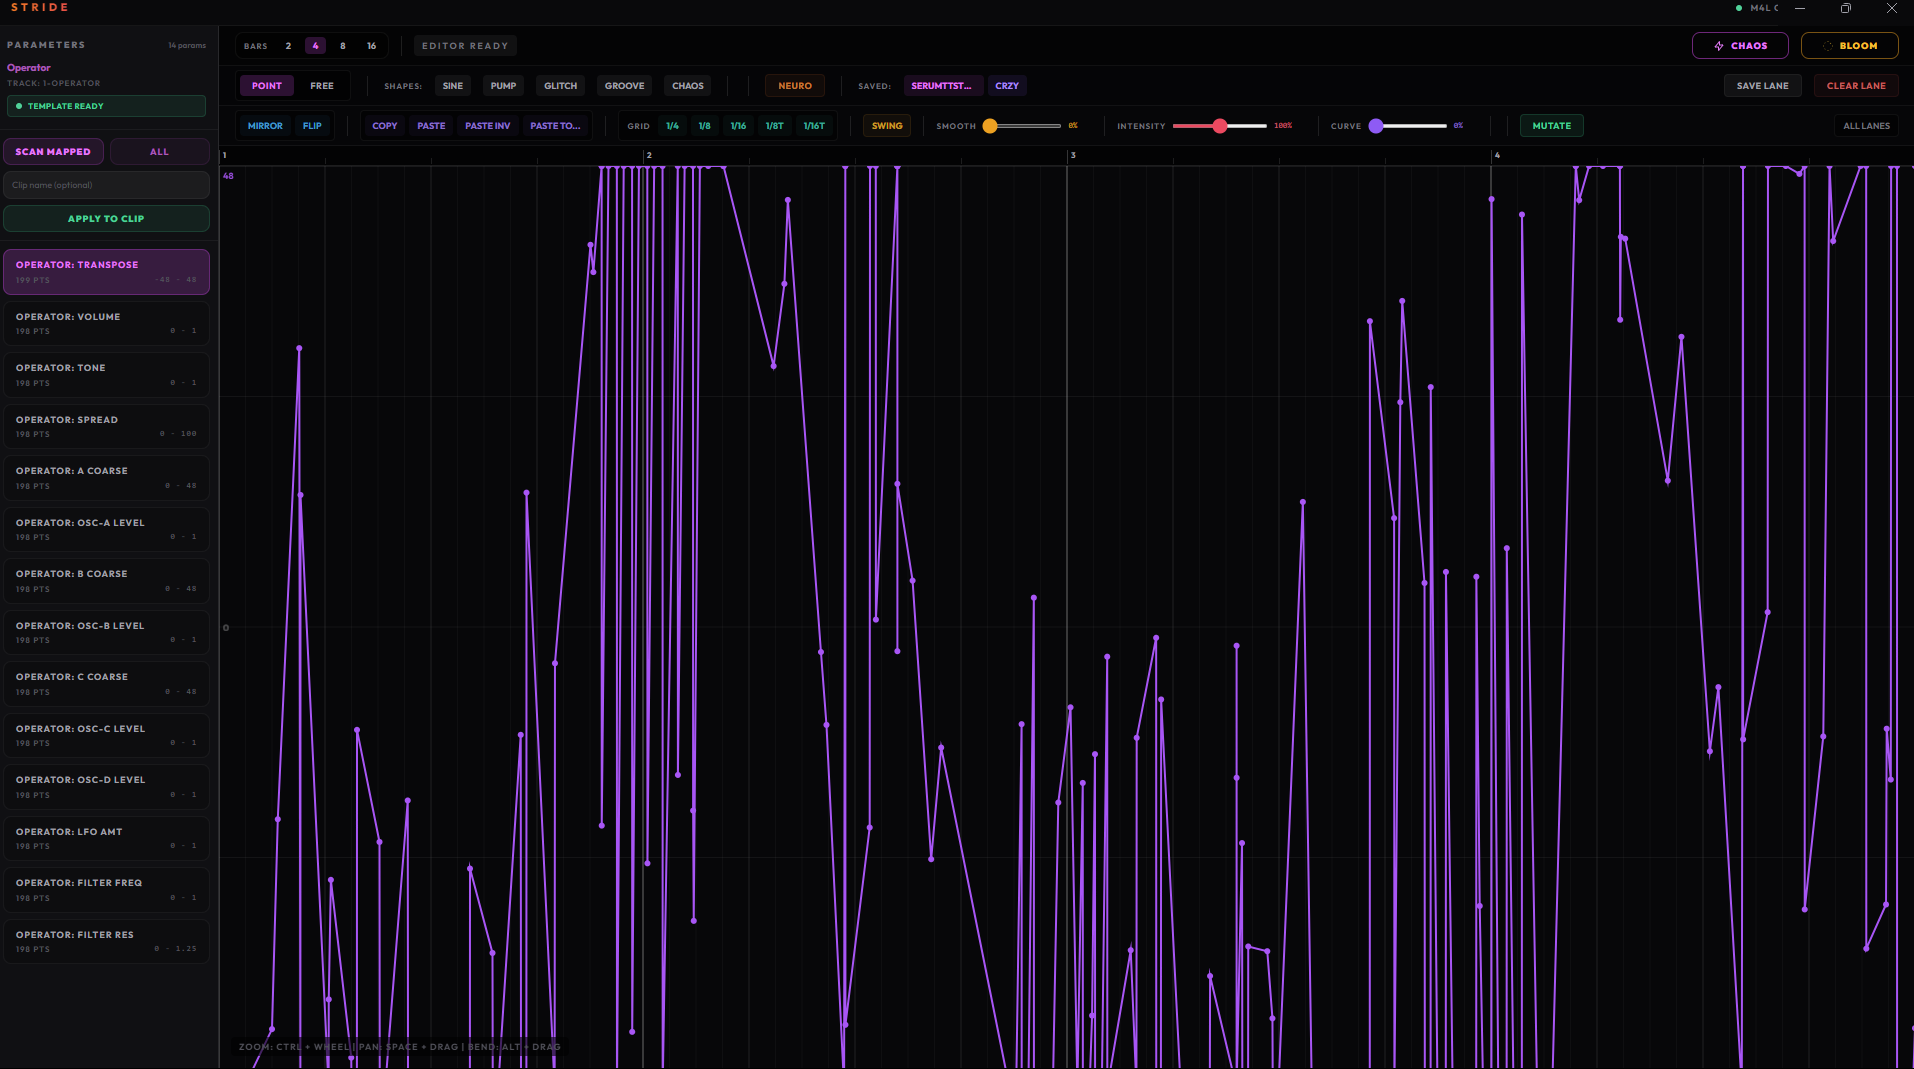
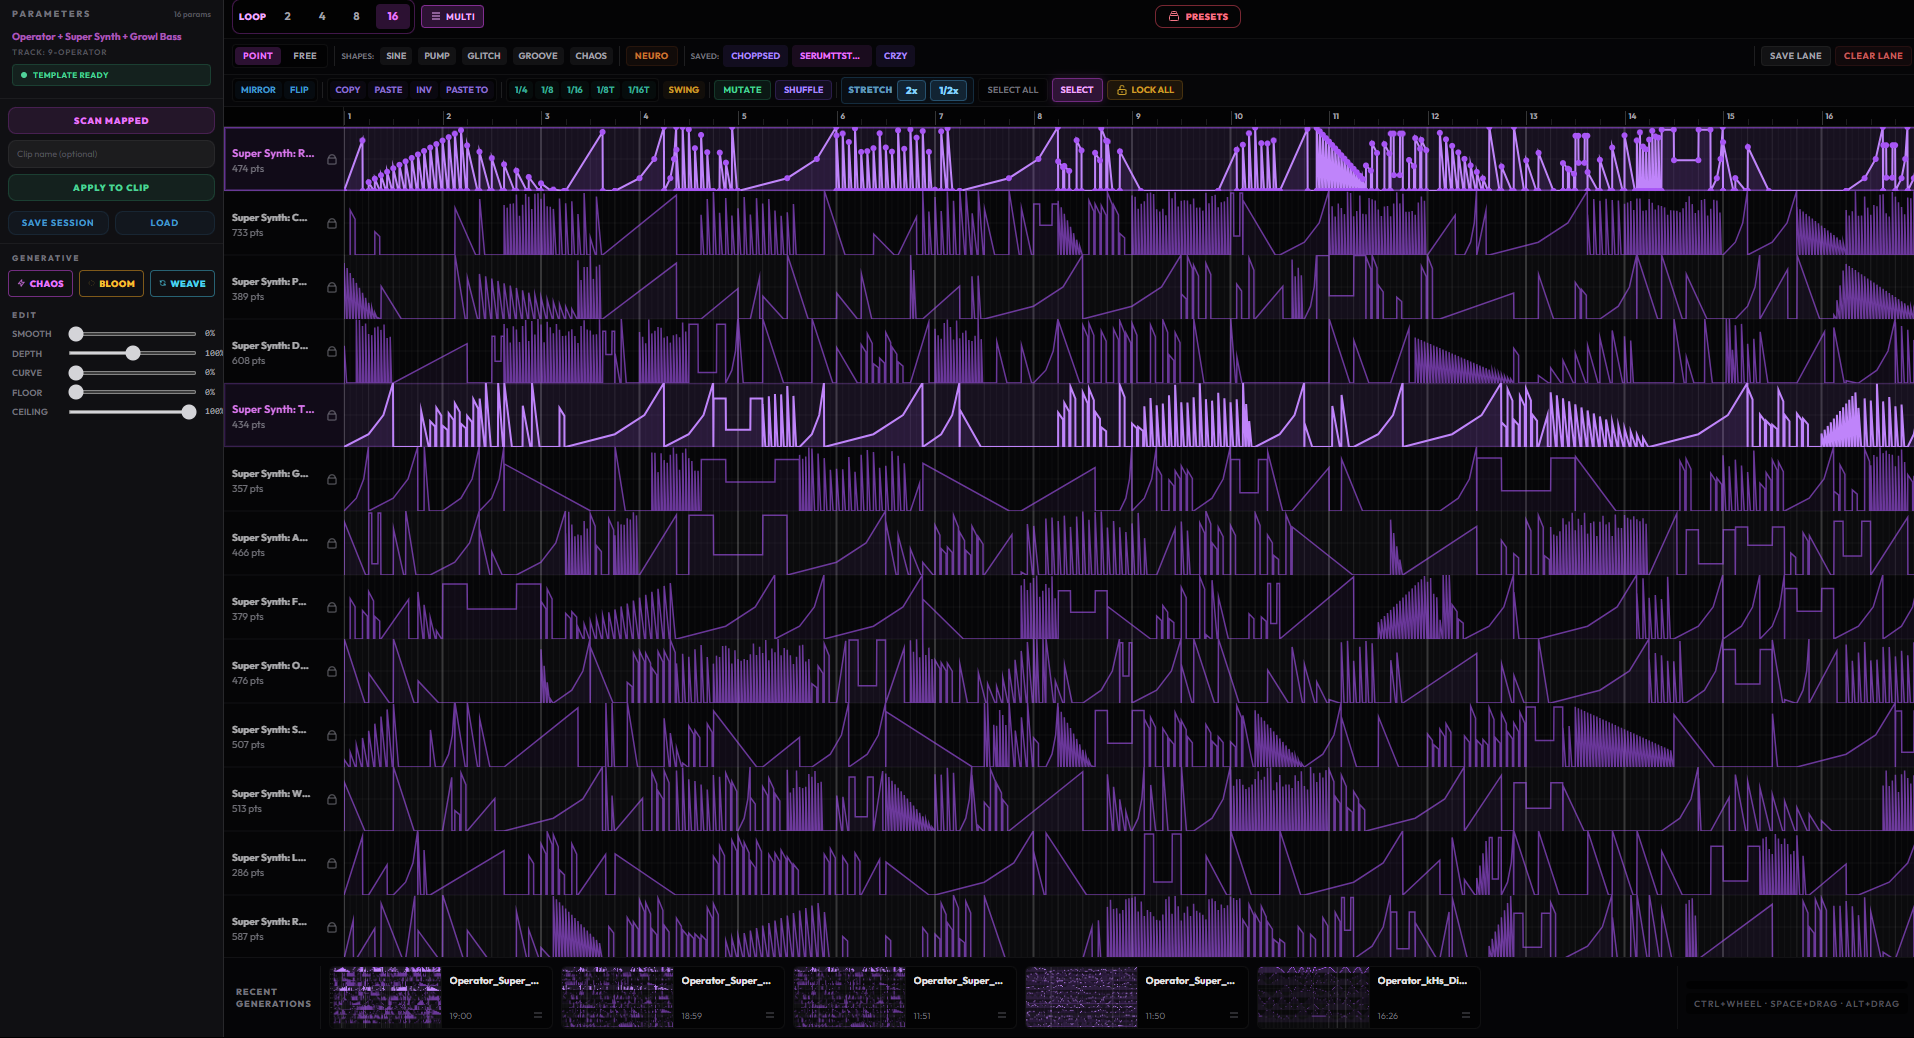
Guide step 6 + bezier API proposal: tightening pass
Step 6 (in-app guide):
  - New screenshot — full multi-lane view with curves drawn across 13 lanes,
    sidebar showing EDIT sliders + GENERATIVE tools (Chaos/Bloom/Weave),
    Recent Generations dock at bottom. Better reflects the actual canvas
    surface area producers will work with.
  - Step text expanded: now mentions all 6 shape templates by name (Sine,
    Pump, Glitch, Groove, Chaos, Neuro), the EDIT slider stack, the Select/
    Select All multi-lane workflow, Lock for protection, and the loop-length
    selector. Was previously thin (only Chaos + Bloom mentioned).
  - Alt text replaced — old generic version was unhelpful for screen readers.

Bezier API proposal (docs/, public-facing):
  - Added TOC for navigation
  - Fixed TL;DR math: was "four new capabilities" but body had 5 + bonus.
    Now reads "removes a six-step friction pipeline AND unlocks five
    capabilities" — matches body sections 1-5 + bonus.
  - Tightened awkward phrasings ("user's experience of LOM's lack of...")
  - Replaced placeholder forum link with concrete pointers (Cycling 74
    forum + Ableton developer feedback channel + #M4LBezier hashtag)
  - Stride link in author byline
  - Final closing line tightened

diff --git a/stride-vst/app/assets/guide.html b/stride-vst/app/assets/guide.html
@@ -111,9 +111,10 @@
             <div class="step-num">6</div>
             <div class="step-body">
                 <div class="step-title">Open Canvas — get wild</div>
-                <p class="step-text">The Stride canvas launches with your parameters as lanes. Draw curves, apply templates, use <b>Chaos</b> to fill all lanes at once, or <b>Bloom</b> to spread one curve across every lane with variations.</p>
-                <p class="step-text" style="margin-top:6px;">Name your clip in the input field, then click <b>Apply to Clip</b>.</p>
-                <div class="step-img"><img src="step6.png" alt="Stride canvas with automation curves"></div>
+                <p class="step-text">The Stride canvas launches with your parameters as lanes — one lane per mapped knob. Draw curves freehand, apply shape templates (Sine, Pump, Glitch, Groove, Chaos, Neuro), use <b>Chaos</b> to fill every lane at once, <b>Bloom</b> to spread one curve across all lanes with variations, or <b>Weave</b> for phase-shifted counterpoint.</p>
+                <p class="step-text" style="margin-top:6px;">Shape each lane with the sidebar sliders — <b>Smooth</b>, <b>Depth</b>, <b>Curve</b>, <b>Floor</b>, <b>Ceiling</b>. Use <b>Select All</b> or <b>Select</b> mode to apply tools to multiple lanes at once. <b>Lock</b> any lane you want to protect from changes.</p>
+                <p class="step-text" style="margin-top:6px;">Pick your loop length up top (2/4/8/16 bars), name your clip in the input field, then click <b>Apply to Clip</b>.</p>
+                <div class="step-img"><img src="step6.png" alt="Stride canvas — full multi-lane view with curves drawn across 13 lanes, sidebar showing EDIT sliders + GENERATIVE tools (Chaos, Bloom, Weave), and Recent Generations dock at the bottom"></div>
             </div>
         </div>
 

diff --git a/docs/bezier-envelope-api-proposal.md b/docs/bezier-envelope-api-proposal.md
@@ -2,9 +2,27 @@
 
 *A modest proposal from a Max for Live developer*
 
+---
+
+**Contents**
+- [TL;DR](#tldr)
+- [The friction, named](#the-friction-named)
+- [The user-facing pain (a real story)](#the-user-facing-pain-a-real-story)
+- [The technical reality](#the-technical-reality)
+- [The proposed API](#the-proposed-api)
+- [What this single change unlocks](#what-this-single-change-unlocks)
+- [Who benefits](#who-benefits)
+- [Cost on Ableton's side](#cost-on-abletons-side)
+- [Backwards compatibility](#backwards-compatibility)
+- [How M4L devs can help](#how-m4l-devs-can-help)
+
+---
+
 ## TL;DR
 
-Ableton's Live Object Model lets us write breakpoints into clip envelopes — but only as stair-step plateaus. There's no programmatic way to write bezier curve handles. As a result, every Max for Live modulator developer working with smooth automation has to take a bizarre detour: generate an `.alc` file on disk, then ask the user to drag it manually into a clip slot. **One new LOM method would eliminate this friction for an entire category of devices — and unlock four new capabilities that don't exist anywhere else.**
+Ableton's Live Object Model lets us write breakpoints into clip envelopes — but only as stair-step plateaus. There's no programmatic way to write bezier curve handles. As a result, every Max for Live modulator developer working with smooth automation has to take a bizarre detour: generate an `.alc` file on disk, then ask the user to drag it manually into a clip slot.
+
+**One new LOM method removes a six-step friction pipeline AND unlocks five capabilities that don't exist anywhere else in Live today.**
 
 ## The friction, named
 
@@ -23,13 +41,13 @@ Steps 2, 4, 5, 6, 7, 8 should not exist. They exist only because **LOM cannot wr
 
 ## The user-facing pain (a real story)
 
-A producer emailed me last week: "I drew curves, hit Apply, dragged the .alc onto a clip slot — nothing happened. The track plays but no automation."
+A producer emailed me last week: *"I drew curves, hit Apply, dragged the .alc onto a clip slot — nothing happened. The track plays but no automation."*
 
-The cause: he dropped the .alc on a MIDI track that had a **different rack** than the one he scanned with. The .alc references parameter `PointeeId`s from the original rack. On the target track, those IDs don't exist. Ableton imports the clip without erroring, but every envelope is orphaned. Total silent failure.
+The cause: he dropped the `.alc` on a MIDI track that had a **different rack** than the one he scanned with. The `.alc` references parameter `PointeeId`s from the original rack. On the target track, those IDs don't exist. Ableton imports the clip without erroring, but every envelope is orphaned. **Total silent failure.**
 
 The workaround I had to give him: "drop on a fresh empty MIDI track with no rack on it." That works, but it's voodoo. He'd never figure it out from the UI.
 
-This is one of dozens of similar emails. Each one is a producer who almost refunded because Stride looked broken. **The user's experience of LOM's lack of bezier-write directly produces user-facing failure modes.**
+This is one of dozens of similar emails. Each one is a producer who almost refunded because Stride looked broken — when the broken thing is actually LOM forcing us through a file-mediated handoff that loses parameter identity at the drop boundary.
 
 ## The technical reality
 
@@ -49,16 +67,19 @@ The ask: expose those bezier handles to LOM.
 
 Two viable shapes. Either solves the problem.
 
-### Option A — batch on Clip
+### Option A — batch on `Clip`
 
 ```python
 Clip.set_envelope_breakpoints(
     parameter,
-    breakpoints: list[dict]  # [{ "time": 0.0, "value": 0.5, "c1x": 0.5, "c1y": 0.3, "c2x": 0.5, "c2y": 0.3 }]
+    breakpoints: list[dict]
+    # [{ "time": 0.0, "value": 0.5,
+    #    "c1x": 0.5, "c1y": -0.3,
+    #    "c2x": 0.5, "c2y":  0.3 }, ...]
 ) → None
 ```
 
-Atomic, fast for bulk writes. Follows Ableton's recent LOM extension pattern (task-specific methods on parent objects — see `create_audio_clip`, `create_midi_clip` added in Live 12.1).
+Atomic, fast for bulk writes (which is what most envelope-drawing devices do). Follows Ableton's recent LOM extension pattern: task-specific methods on parent objects (see `create_audio_clip`, `create_midi_clip` added in Live 12.1).
 
 ### Option B — per-breakpoint method
 
@@ -68,99 +89,100 @@ Clip.add_envelope_breakpoint(
     time: float,
     value: float,
     c1x: float = 0.5, c1y: float = 0.0,
-    c2x: float = 0.5, c2y: float = 0.0
+    c2x: float = 0.5, c2y: float = 0.0,
 ) → None
 ```
 
-Defaults that produce a linear segment — backwards-compatible. More LOM calls per write but simpler API surface.
+Defaults that produce a linear segment — backwards-compatible mental model. More LOM calls per write but smaller API surface.
 
-## What this single API change unlocks
+## What this single change unlocks
 
-It's not just "make Stride less awkward." Five entire categories of capability become possible that aren't possible today.
+It's not just "make Stride less awkward." Five concrete categories of capability appear that aren't possible today.
 
-### 1. Direct write — eliminates 6 friction steps in one shot
+### 1. Direct write — six friction steps collapse to one
 
-The seven-step nightmare above collapses to: scan → draw → apply. No template, no file, no drag, no track confusion, no silent failures. **Producer time saved per iteration: ~10 seconds → ~0.5 seconds.**
+The eight-step nightmare above becomes: **scan → draw → apply.** No template, no file, no folder, no drag, no track confusion, no silent failures. Producer time per iteration: **~10 seconds → ~0.5 seconds.**
 
-### 2. Track-mismatch detection — kills the silent-fail class entirely
+### 2. Track-mismatch detection — kills the silent-fail class
 
-Post-API, Stride reads `live_set view detail_clip`, walks up to its track, compares against the rack's track. If they don't match, refuse to write and show: *"The clip you have open is on track 'X'. Stride is bound to track 'Y'. Open a clip on the right track."* The producer sees the actual problem instead of staring at unmoving parameters.
+Stride reads `live_set view detail_clip`, walks up to its track, compares against the rack's track. If they don't match, refuse to write and show: *"The clip you have open is on track 'X'. Stride is bound to track 'Y'. Open a clip on the right track."* The producer sees the actual problem instead of staring at unmoving parameters.
 
-### 3. Live preview — closes the feedback loop completely
+This single check eliminates an entire class of "I followed the steps and it didn't work" support tickets.
 
-With direct envelope writes, Stride can debounce slider drag input at ~30 Hz and write each tick directly to the clip. Producer drags Smooth → hears the curve smoothing **in real time during the drag**. Drags Cutoff Floor → hears the filter open **as they pull the slider**.
+### 3. Live preview — closes the feedback loop
 
-This is the ONLY way to get real-time automation feedback in Live today. `live.remote~` modulates parameters in real time but writes nothing to clips (modulation dies when the device is removed). Native automation lanes have no programmatic-write path. The bezier API enables both: real-time preview AND clip-persistent storage in one capability. **This is the single biggest creative-workflow improvement Live could ship for sound designers.**
+With direct envelope writes, Stride can debounce slider input at ~30 Hz and write each tick directly to the clip. Producer drags Smooth → hears the curve smoothing **in real time during the drag.** Drags Filter Floor → hears the cutoff opening **as they pull the slider.**
 
-### 4. Per-lane Apply — additive automation instead of clip replacement
+This is the **only** way to get real-time programmable automation feedback in Live today:
+- `live.remote~` modulates parameters in real time but writes nothing to clips (modulation dies when the device is removed).
+- Native automation lanes have no programmatic-write path.
+- The bezier API enables **both**: real-time preview AND clip-persistent storage in one capability.
 
-Today, `.alc` import REPLACES the clip's entire envelope set. Producer wants to add a Cutoff curve without touching their existing Filter Resonance automation? Impossible without re-creating Filter Resonance from scratch in the new .alc.
+This is the single biggest creative-workflow improvement Live could ship for sound designers.
 
-With the API, Stride writes only the lanes the user picked. Other envelopes stay untouched. Producers can layer curves across multiple sessions without rewriting their work each time.
+### 4. Per-lane Apply — additive instead of clip replacement
 
-### 5. Undo Apply — first-class clip-level undo
+Today, `.alc` import REPLACES the clip's entire envelope set. Producer wants to add a Cutoff curve without touching their existing Filter Resonance automation? Impossible without re-creating Filter Resonance from scratch in the new `.alc`.
+
+With the API, devices write only the lanes the user picked. Other envelopes stay untouched. Producers can layer curves across multiple sessions without rewriting their work each time.
+
+### 5. Undo Apply — first-class clip-level revert
 
 Snapshot existing breakpoints before write. On Undo, restore them. Today there's no way back from a bad Apply.
 
-### 6. New device categories that don't exist today
+### Bonus: new device categories that don't exist today
 
 - **Curve marketplaces** — share a curve as a `.curve` file, apply to any rack via LOM `_path` matching. Currently impossible because curves are tied to template envelope structure.
-- **Generative modulators** that write to clips (not just modulate live) — algorithmic envelope generation, AI-driven automation, streaming generation pipelines.
+- **Generative modulators that write to clips** (not just modulate live) — algorithmic envelope generation, AI-driven automation, streaming generation pipelines.
 - **Curve editors that aren't tied to specific devices** — third-party envelope drawing tools that work with ANY rack, not just ones with pre-saved templates.
 
 ## Who benefits
 
 **M4L modulator developers (~50–100 commercial devs):**
-- Stride and similar drawing tools can write directly to clips. No `.alc` files. No drag-drop. No silent failures.
-- Custom envelope generators (Shaper-style devices, but programmable from outside) become possible.
+- Drawing tools write directly to clips. No `.alc` files, no drag-drop, no silent failures.
+- Custom envelope generators (Shaper-style, but programmable from outside) become possible.
 - Generative automation tools can write smooth modulation programmatically — currently impossible.
 
 **Producers using those devices:**
-- Removed the most-friction step in any "draw curves and hear them" workflow.
+- Most-friction step removed from any "draw curves and hear them" workflow.
 - Real-time preview where there's currently a 10-second feedback loop.
 - No more "I followed the steps and it didn't work" silent failures.
 - More iterations per session = more sound design exploration.
 
 **Ableton:**
-- Live becomes the only DAW with deep programmable bezier automation. FL Studio, Logic, Bitwig — none have this.
-- Differentiator that attracts sound designers who currently flinch at Live's stock automation tools.
+- Live becomes the only DAW with deep programmable bezier automation. FL Studio, Logic, Bitwig — none of them have this.
+- Differentiator that attracts sound designers who currently bounce off Live's stock automation tools.
 - Suite upsell driver — every interesting M4L modulator becomes a reason to be on Suite.
-- Costs ~1–2 engineering weeks. Possibly less.
 - Aligns with the recent Live 12.x LOM expansion direction (`create_audio_clip`, `create_midi_clip`, take-lane access, `display_value`).
 
-## Why now
+## Cost on Ableton's side
 
-Live 12 added several modulator-related APIs — clear signal that Ableton is investing in this space. The Modulators pack (Shaper, LFO, Envelope Follower) shipped with sophisticated curve-drawing UI. The internal capability obviously exists. **Exposing it to LOM is the next natural step.**
+Estimated **1–2 engineering weeks** based on what already exists internally:
 
-Live 12.1's addition of `Clip.create_audio_clip` and `Clip.create_midi_clip` shows Ableton is willing to add task-specific methods on `Clip`. `set_envelope_breakpoints` fits the same pattern.
+- The `.alc` XML format already supports bezier handles (`CurveControl1X/Y`, `CurveControl2X/Y` are written by Live itself when users draw curves manually).
+- The clip envelope engine already renders bezier — that's how Live displays user-drawn curves.
+- The work is exposing the existing internal capability through LOM, not building new rendering or storage.
+
+Compared to the developer ecosystem this enables and the producer workflow improvement it unblocks, it's a small investment for a large multiplier.
 
 ## Backwards compatibility
 
-The proposal is purely additive. `insert_step` continues to work exactly as it does today. Existing M4L devices that use it are unaffected. The new method/methods exist alongside, with sensible defaults that produce linear segments if curve handles aren't specified — keeping the API approachable for developers who don't need bezier.
+The proposal is **purely additive**. `insert_step` continues to work exactly as it does today. Existing M4L devices that use it are unaffected. The new method exists alongside, with sensible defaults that produce linear segments when curve handles aren't specified — approachable for developers who don't need bezier.
 
-No breaking changes to LOM. No deprecations. Just a new capability.
-
-## The cost on Ableton's side
-
-Estimated 1–2 engineering weeks based on:
-- The XML format already supports bezier handles (`CurveControl1X/Y`, `CurveControl2X/Y` are written by Live itself when users draw curves manually)
-- The clip envelope engine already renders bezier — that's how Live displays user-drawn curves
-- The work is exposing the existing internal capability through LOM, not building new rendering or storage
-
-Compared to the developer ecosystem this enables — and the producer workflow improvement it unblocks — it's a small investment for a large multiplier.
+No breaking changes to LOM. No deprecations. Just a new capability slotting in where one is missing.
 
 ## How M4L devs can help
 
-If you've hit this wall too — building modulators, automation tools, generative devices — chime in:
+If you've hit this wall too — building modulators, automation tools, generative devices — pile on:
 
-- Cycling 74 forum thread: [link to existing or new thread]
-- Ableton's developer feedback channel
-- Tag with #M4LBezier on social
+- Comment on the [Cycling 74 forum thread on this topic](https://cycling74.com/forums/) (or start one if none exists)
+- File a feature request in Ableton's [developer feedback channel](https://www.ableton.com/en/help/article/contact-us/)
+- Tag your tweets / posts with `#M4LBezier`
 
-Pressure from working developers is what drives LOM extensions. This is one of those moments.
+Pressure from working developers is what drives LOM extensions. The hooks are already inside Live. They just need to be exposed.
 
 ---
 
-*Written by Joe — building Stride, the sound design engine that shouldn't need a file dragger.*
+*Written by Joe — building [Stride](https://stridehub.io), the sound design engine that shouldn't need a file dragger.*
 
-*[stridehub.io](https://stridehub.io) · [@strideengine](https://www.youtube.com/@strideengine)*
+*[stridehub.io](https://stridehub.io) · [YouTube](https://www.youtube.com/@strideengine)*
